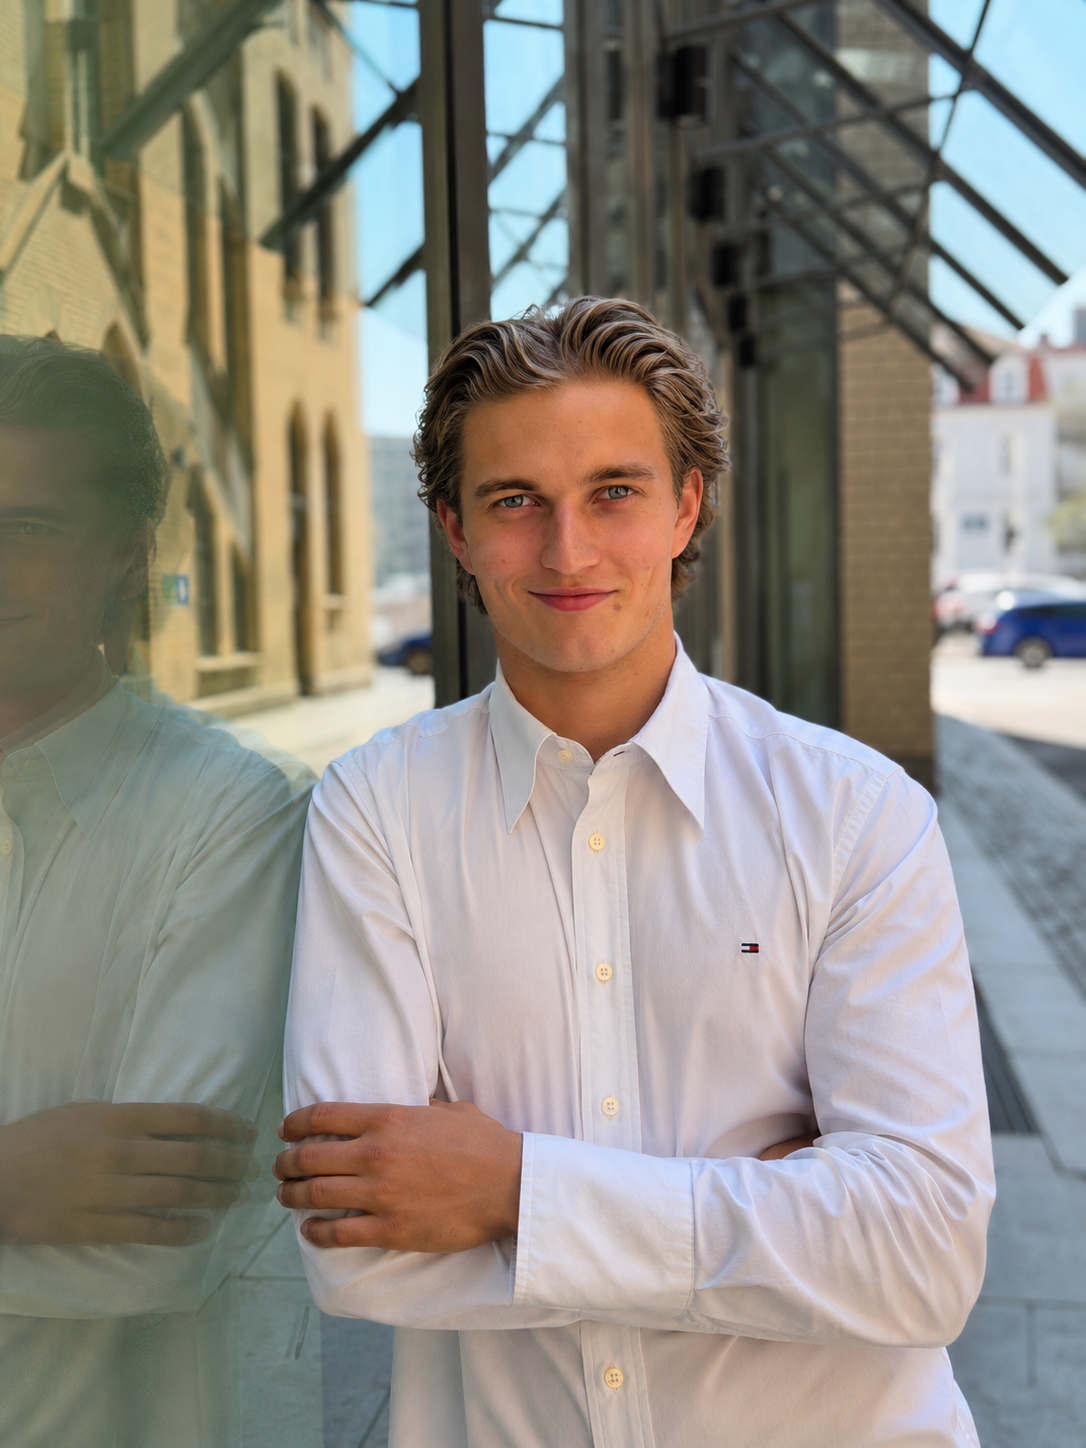
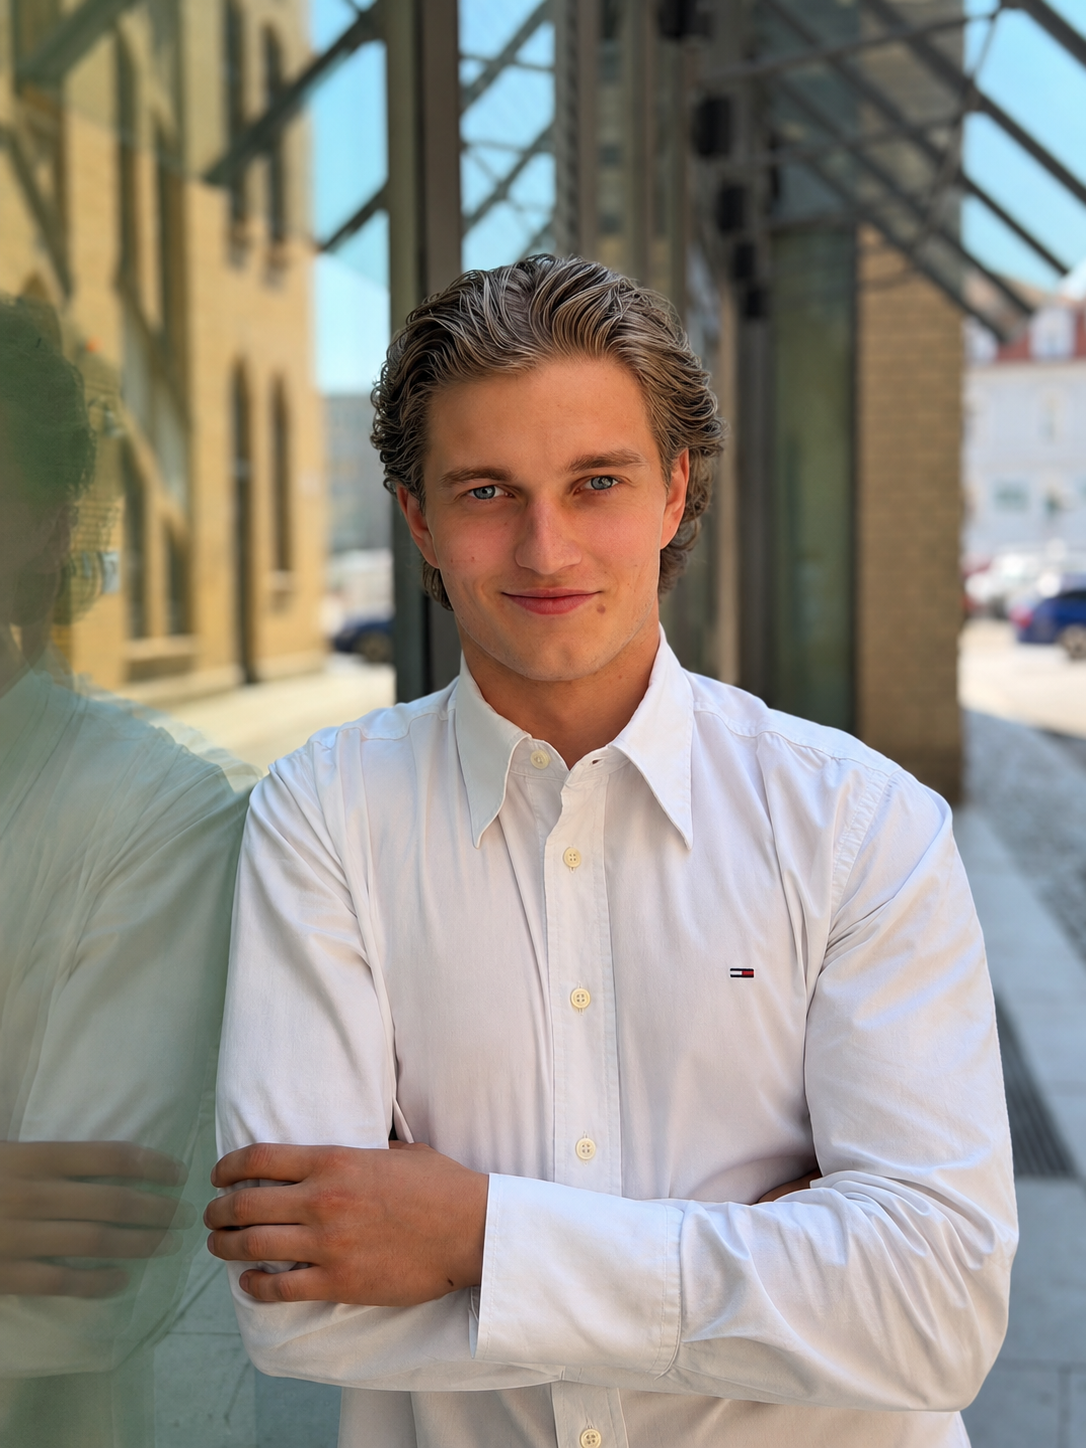
Replace hero portrait with new, centered and larger photo
- New portrait photo: head centered, arms/hands cropped out, square 700x700
- Enlarge portrait circle (mobile 180px, desktop up to 252px) but keep it
  clearly narrower than the JULIAN MÜHL title (~48% of title width on desktop)
- object-position centered (image is pre-framed); update original archive
- No changes to colors, gradient, texts, links, buttons, social icons or logo

diff --git a/styles.css b/styles.css
@@ -102,10 +102,11 @@
   /* Fidano-Logo im Footer: ca. 75 % der Button-Breite (600px) */
   --footer-logo-width: clamp(210px, 74vw, 450px);
 
-  /* Rundes Hero-Portrait ueber dem Namen. Bewusst kompakt gehalten, damit
-     der erste Button auf dem iPhone schnell erreichbar bleibt; auf groesseren
-     Screens gewinnt es etwas mehr Praesenz (132px mobil -> 176px Desktop). */
-  --portrait-size: clamp(132px, 32vw, 176px);
+  /* Rundes Hero-Portrait ueber dem Namen. Etwas groesser als zuvor (wirkte
+     vorher zu klein), aber bewusst schmaler als der Namenszug darunter, damit
+     es die Titelbreite nicht erreicht. Bleibt kompakt genug, dass der erste
+     Button auf dem iPhone schnell erreichbar ist (176px mobil -> 252px Desktop). */
+  --portrait-size: clamp(176px, 48vw, 224px);
 
   /* ---- Bewegung / Timing ---- */
   --ease-premium: cubic-bezier(0.22, 1, 0.36, 1);
@@ -295,10 +296,10 @@ ul {
   width: 100%;
   height: 100%;
   object-fit: cover;
-  /* Fokus auf das Gesicht (leicht oberhalb der Mitte), damit im runden
-     Ausschnitt Kopf und Schultern vorteilhaft sitzen — kein unguenstiger
-     Crop, keine Verzerrung. */
-  object-position: 50% 20%;
+  /* Das Bild ist bereits quadratisch und fertig gerahmt (Kopf zentriert,
+     Haende bewusst weggeschnitten), daher zentriert einsetzen — kein
+     unguenstiger Crop, keine Verzerrung. */
+  object-position: 50% 50%;
 }
 
 /* ---- Buttons (Link-Liste) ---- */
@@ -527,9 +528,10 @@ ul {
   }
 
   /* Auf grossen Screens darf das Portrait etwas mehr Praesenz haben
-     (nie kleiner als der mobile Maximalwert von 176px). */
+     (nie kleiner als der mobile Maximalwert von 224px), bleibt aber klar
+     schmaler als der Namenszug. */
   :root {
-    --portrait-size: clamp(176px, 15vw, 200px);
+    --portrait-size: clamp(224px, 18vw, 252px);
   }
 }
 

diff --git a/index.html b/index.html
@@ -81,8 +81,8 @@
             class="portrait__img"
             src="assets/images/julian-muehl.jpg"
             alt="Julian Mühl"
-            width="540"
-            height="720"
+            width="700"
+            height="700"
             fetchpriority="high"
             decoding="async">
         </figure>
